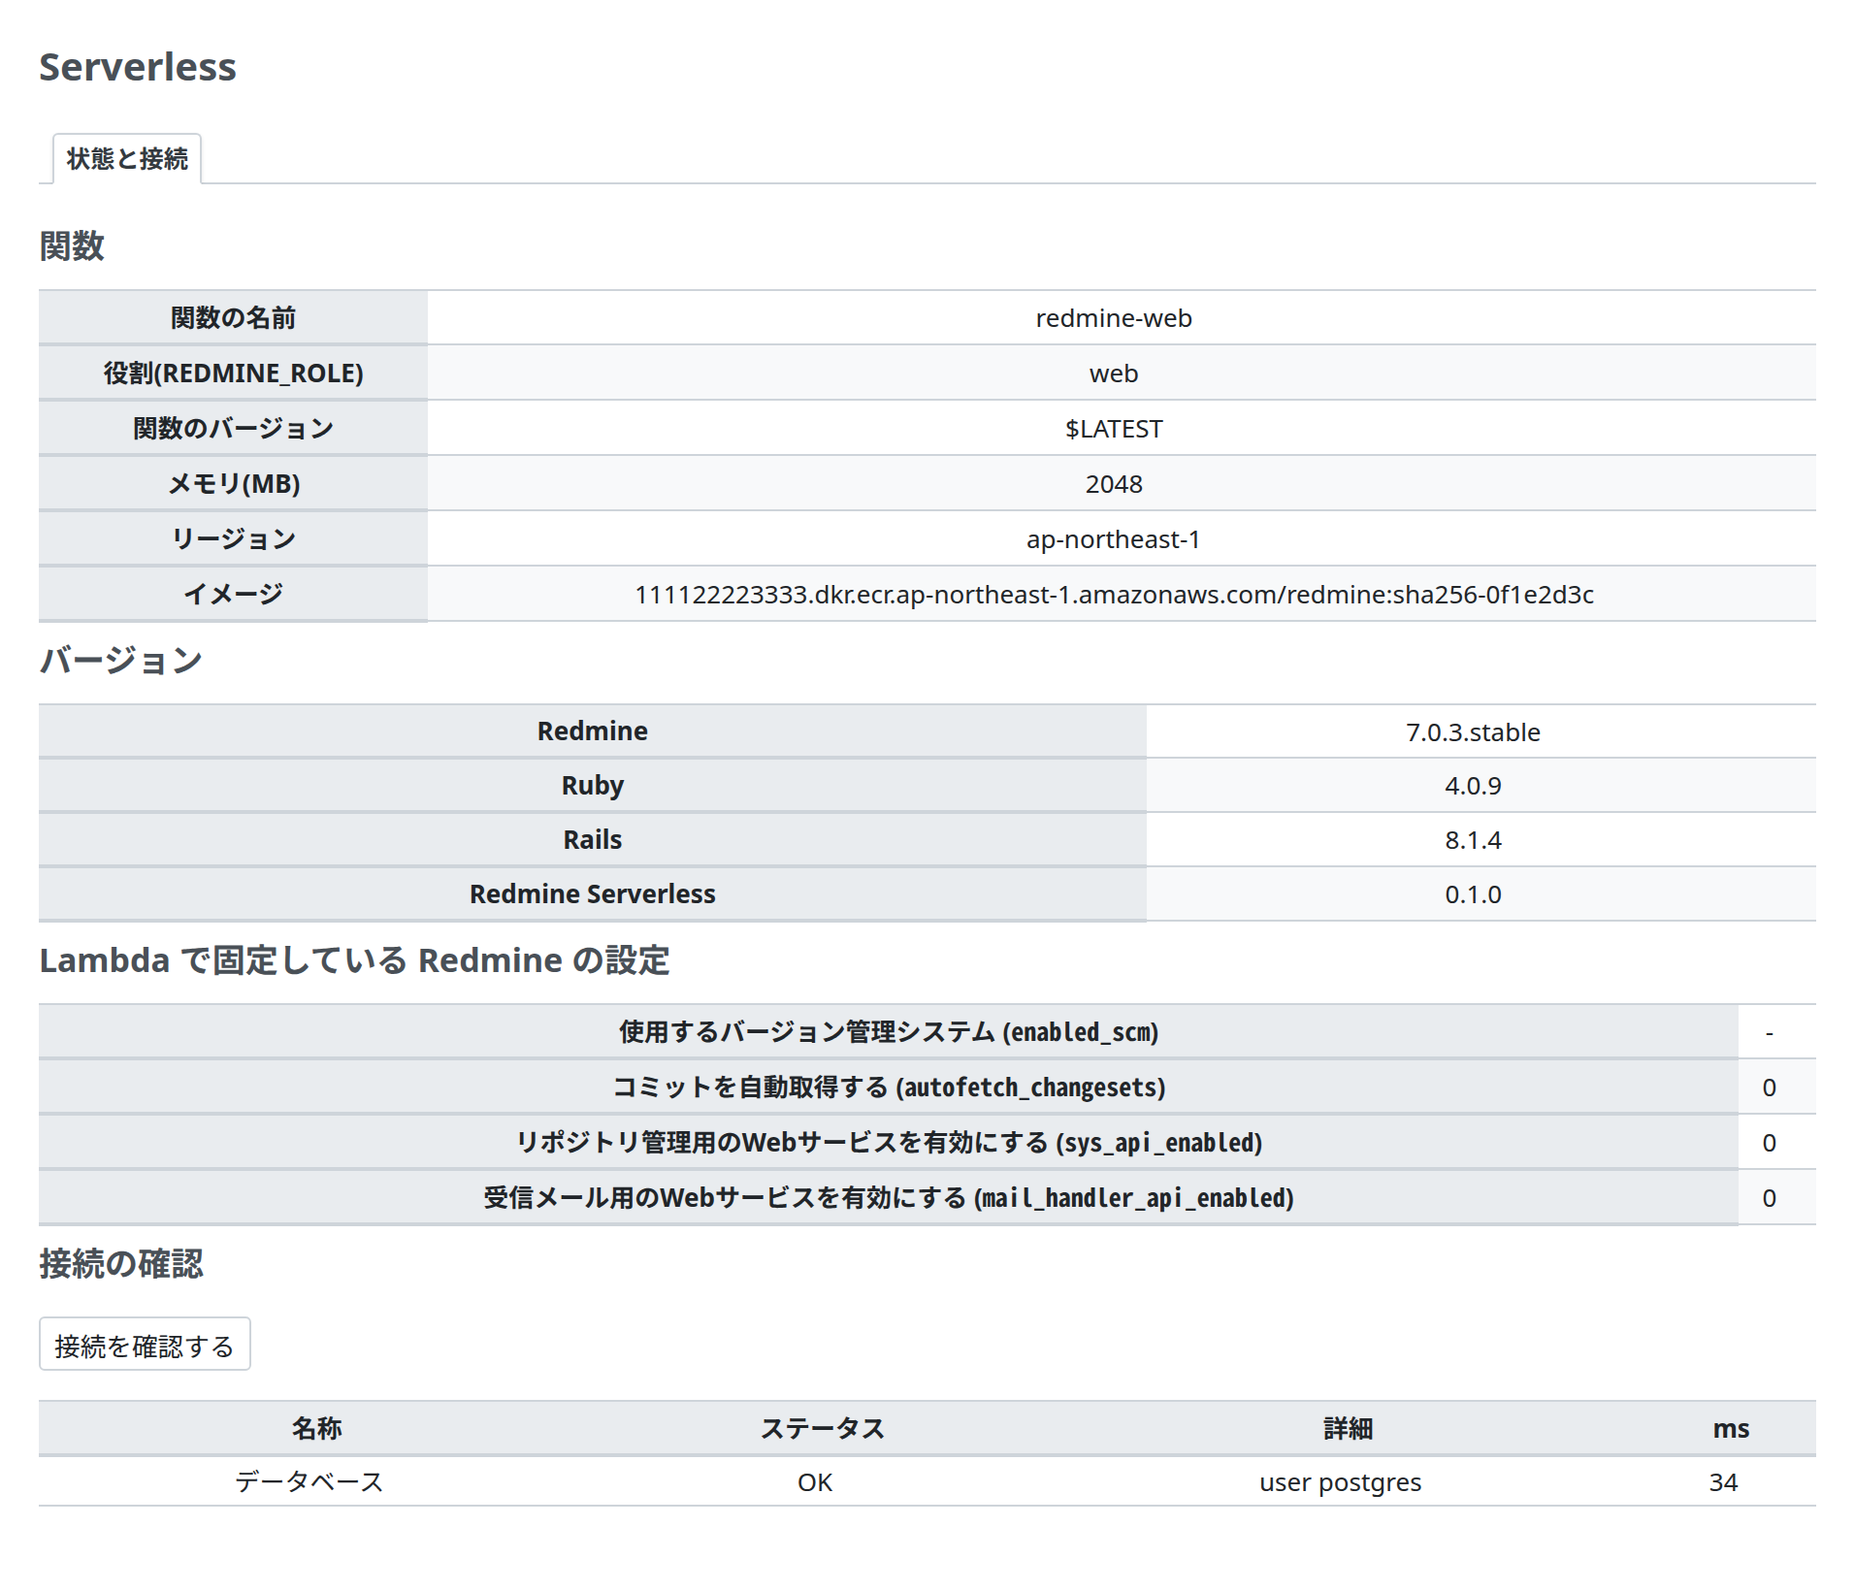
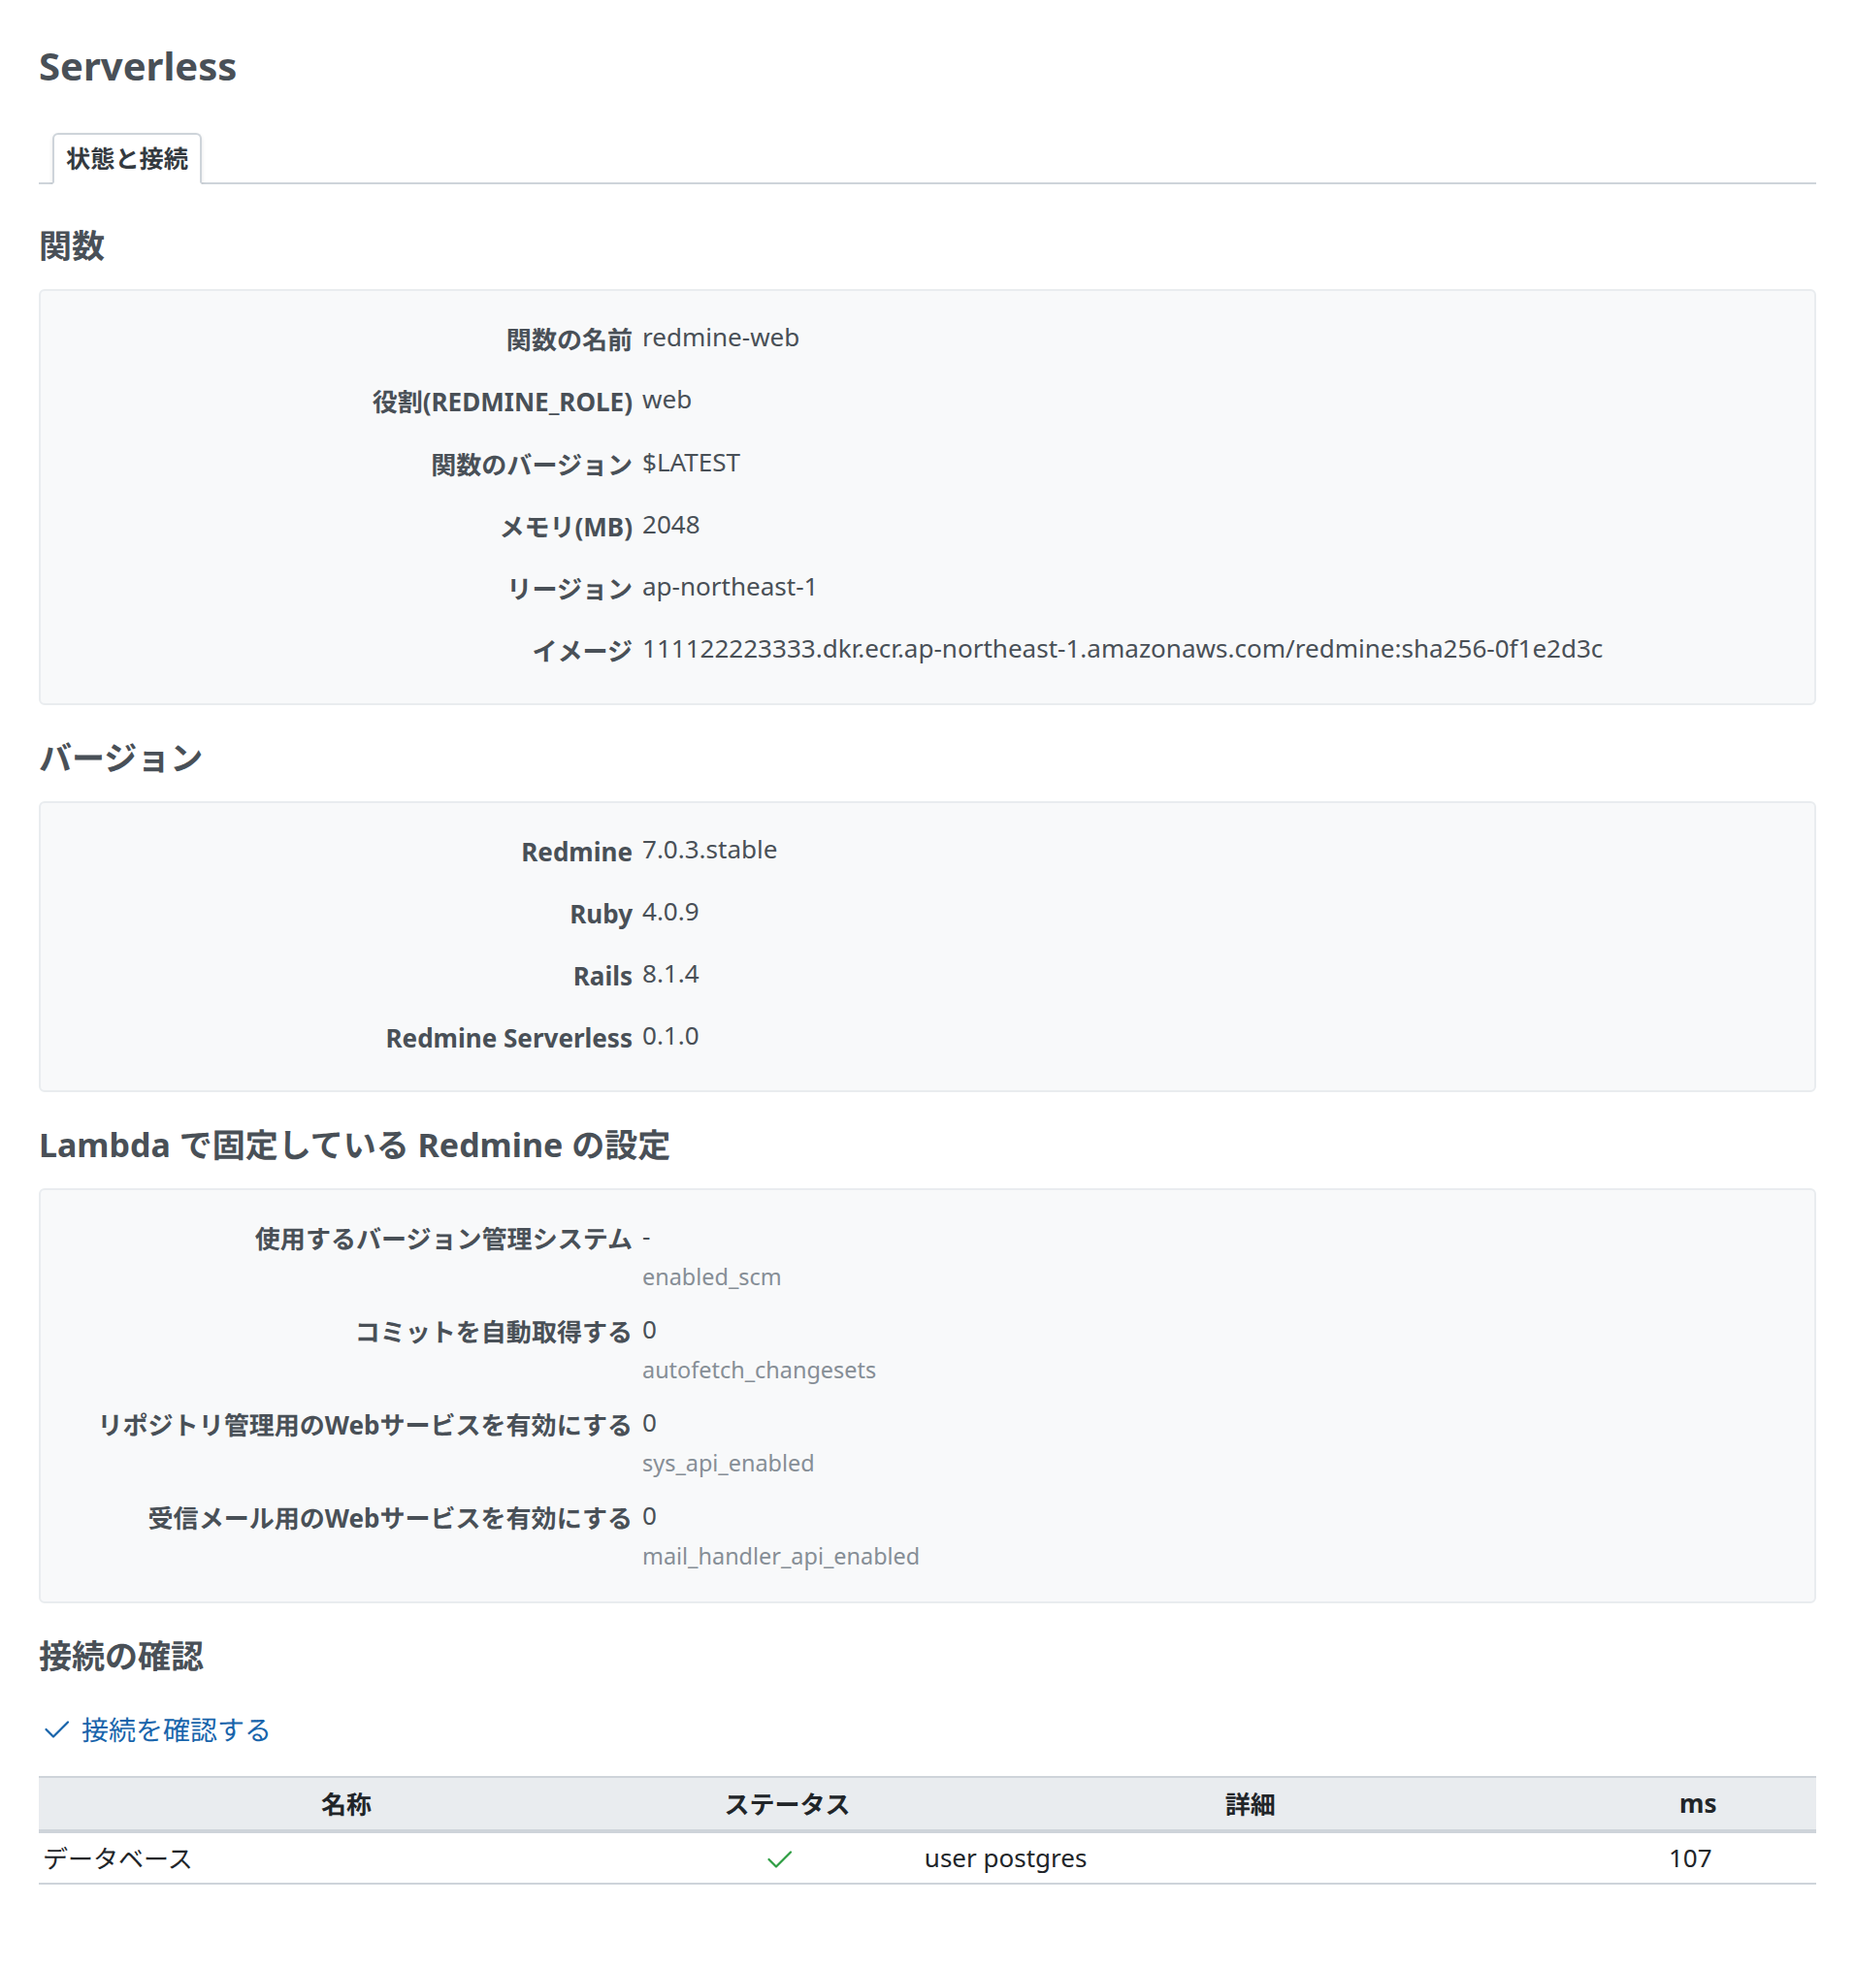
Use common terms for the Japanese section names

diff --git a/docs/ja/setup.md b/docs/ja/setup.md
@@ -1,10 +1,10 @@
-# 準備
+# 導入
 
 Redmine Serverless を使う Redmine に要るもの(インストール、設定、前提にする AWS のリソース、IAM の権限、ネットワーク)です。[Serverless](https://redmine-kit.github.io/serverless/ja/) は、これらをすべて CloudFormation で作ります。このページは、手で用意するときや、Serverless が作るものを確認するときのためのものです。
 
 <a id="requirements"></a>
 
-## 前提
+## 動作環境
 
 - PostgreSQL の上の Redmine 7.0 以降。
 - AWS Lambda では、[Serverless](https://redmine-kit.github.io/serverless/ja/lambda.html#image) と同じく、Lambda Web Adapter を入れたコンテナイメージ。Lambda 以外(`REDMINE_ROLE` がないとき)では、プラグインの機能は動かず、Redmine は標準のままに動きます。
@@ -99,6 +99,6 @@ bin/services --down # PostgreSQL を止める
 
 <a id="to-verify"></a>
 
-## 確認すること
+## 未確認の事項
 
 - 今はありません。2026-11-09 に Redmine 7.0.3 で確認しました。テンプレートを差し替えずに、フック `view_layouts_base_html_head` だけで、設定の画面の入力を無効にできます([admin.md](admin.md#redmine-settings-that-cannot-work-on-lambda))。

diff --git a/docs/ja/README.md b/docs/ja/README.md
@@ -2,8 +2,8 @@
 
 Redmine Serverless(`redmine_serverless`)は、Redmine を AWS Lambda で動かすための Redmine のプラグインです。[Serverless](https://redmine-kit.github.io/serverless/ja/architecture.html) が、Lambda 用のイメージに入れて使います。Redmine 本体のファイルは書き換えず、Redmine の標準の拡張の仕組みだけで作ります。今は開発の初期です(バージョン 0.1.0)。
 
-- [準備](setup.md): 前提、インストール、設定、AWS のリソース、ネットワーク、テスト
-- [IAM の権限](iam.md): 権限、例のポリシー、リソースベースのポリシー
+- [導入](setup.md): 動作環境、インストール、設定、AWS のリソース、ネットワーク、テスト
+- [IAM の権限](iam.md): 権限、ポリシーの例、リソースベースのポリシー
 - [管理画面](admin.md): 状態と接続、Lambda で使えない Redmine の設定
 - [Lambda で動かすとき](#running-on-lambda): `/events`、アセットの確認、テスト
 

diff --git a/docs/ja/iam.md b/docs/ja/iam.md
@@ -12,7 +12,7 @@
 
 <a id="example-policy"></a>
 
-## 例のポリシー
+## ポリシーの例
 
 ありません。
 
@@ -24,6 +24,6 @@
 
 <a id="not-checked-yet"></a>
 
-## 未確認のこと
+## 未確認の事項
 
 ありません。
